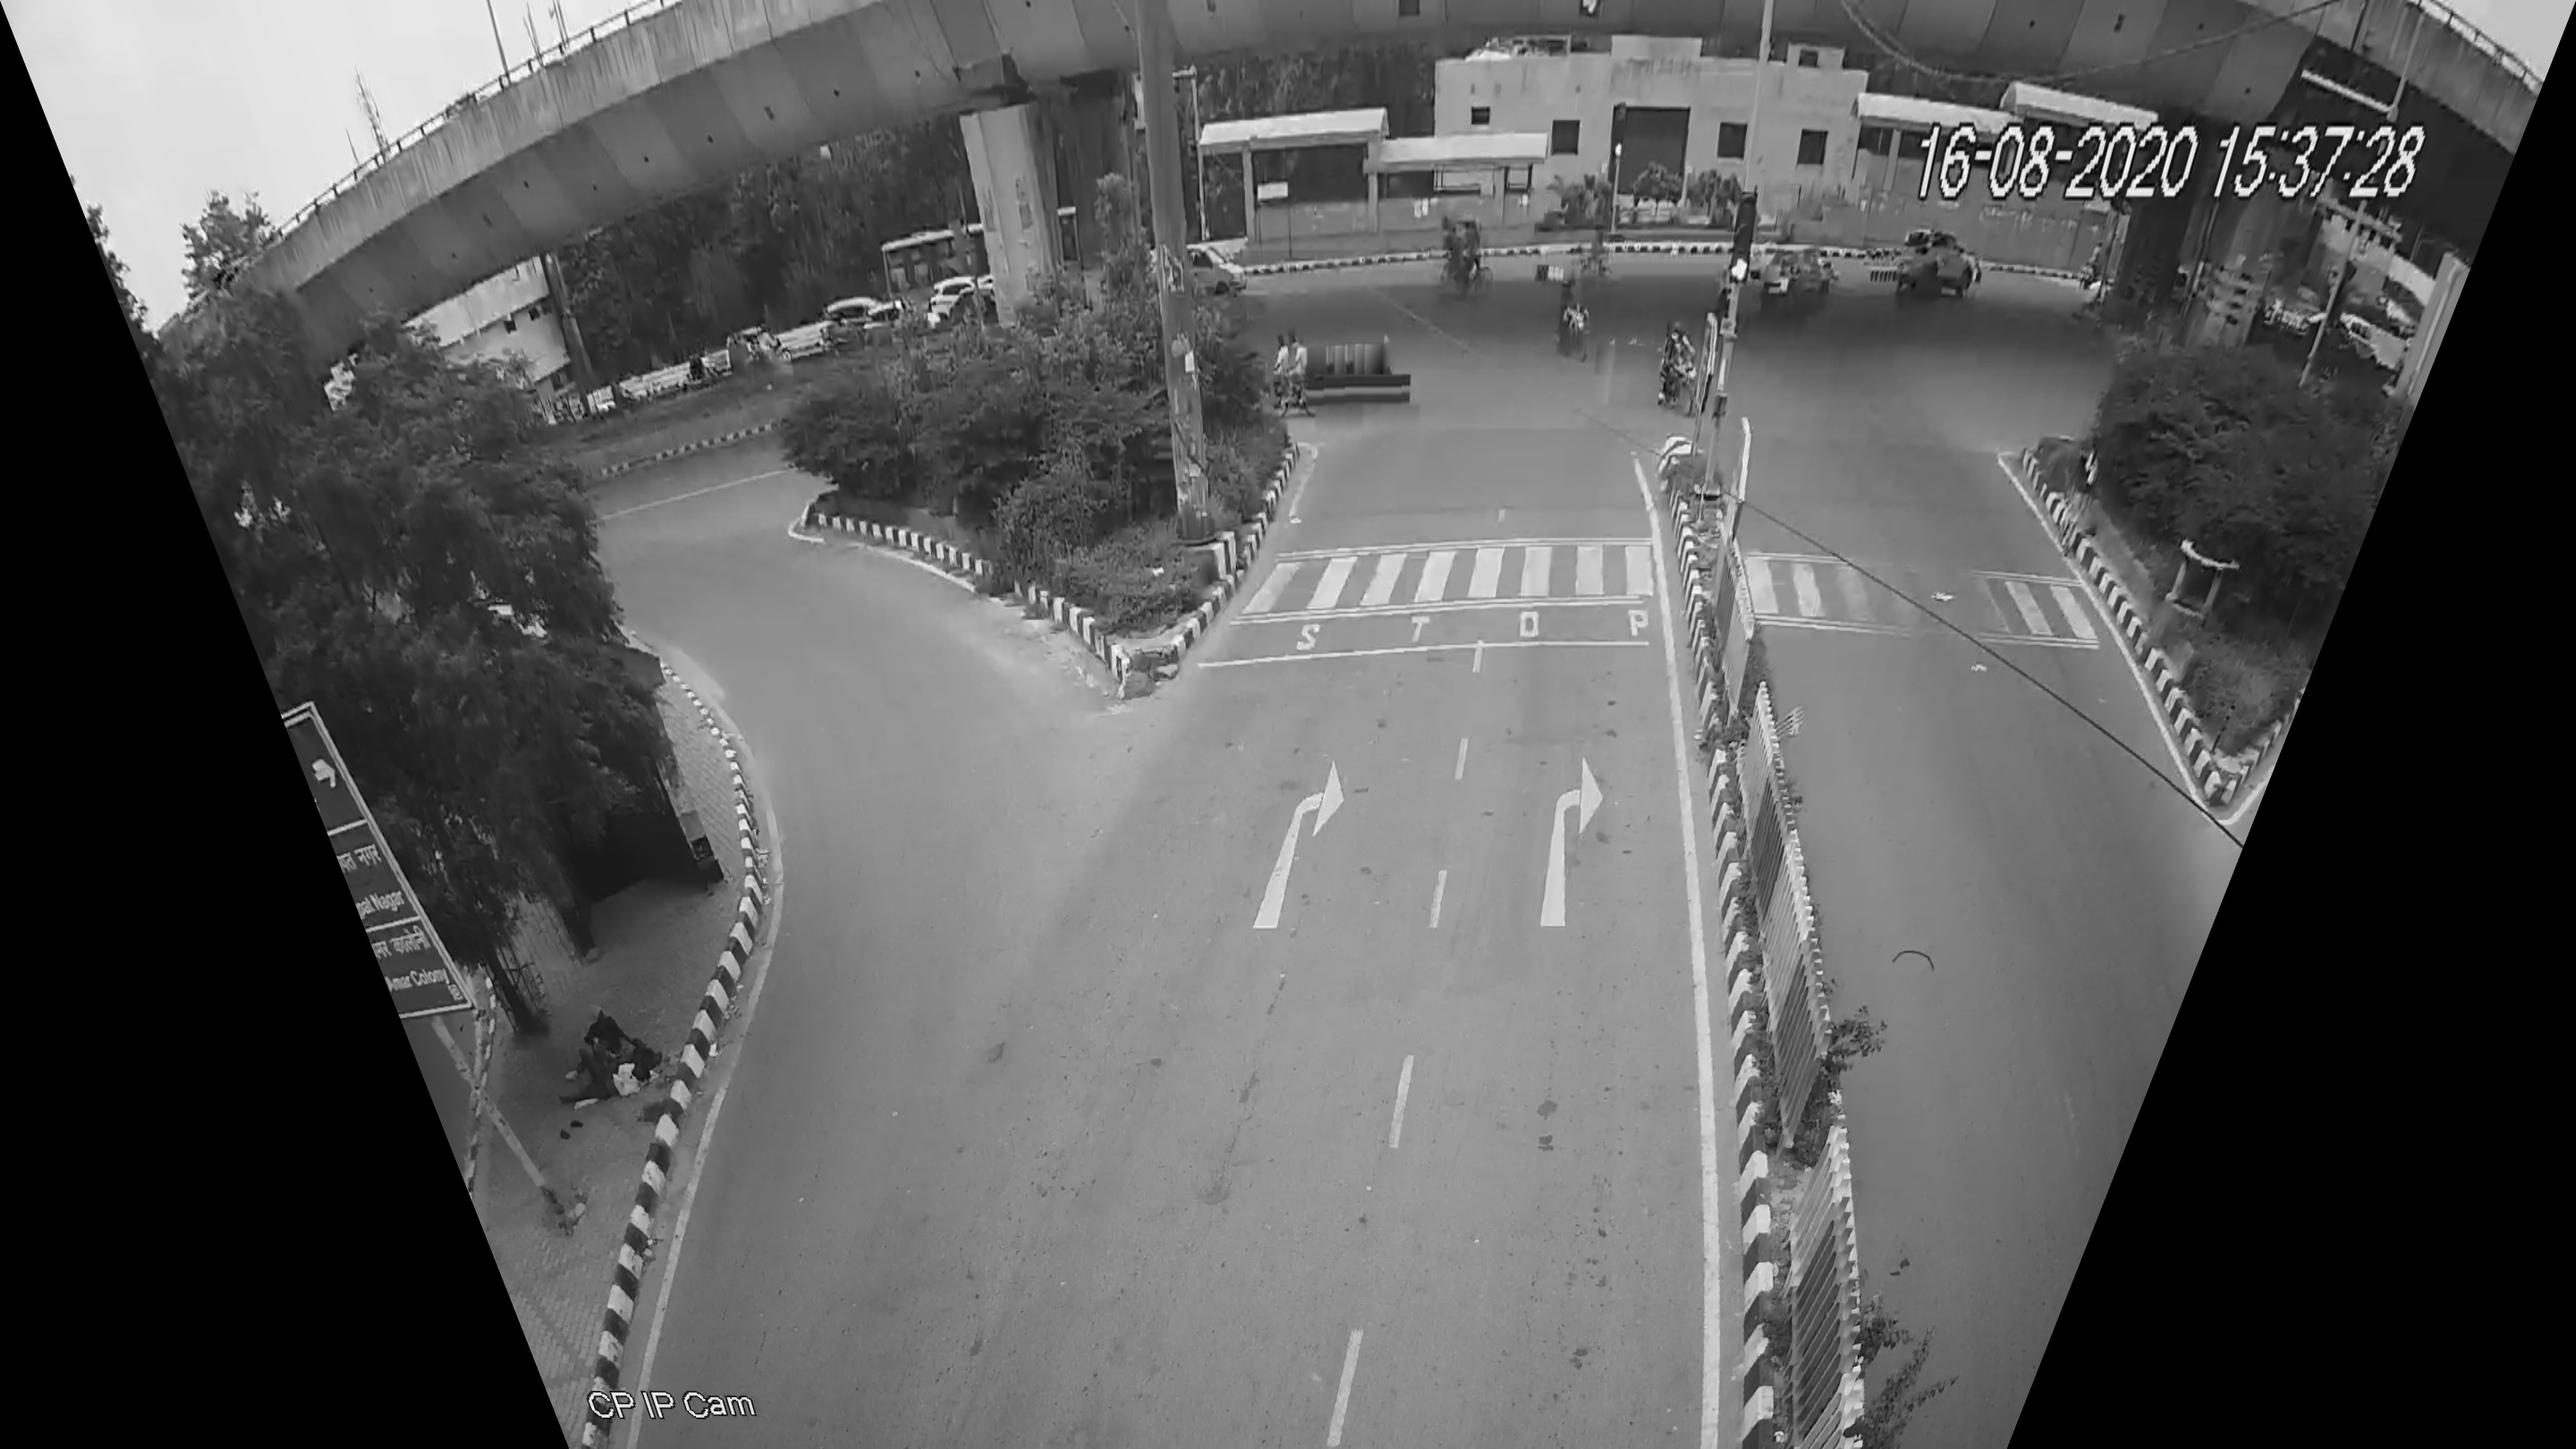
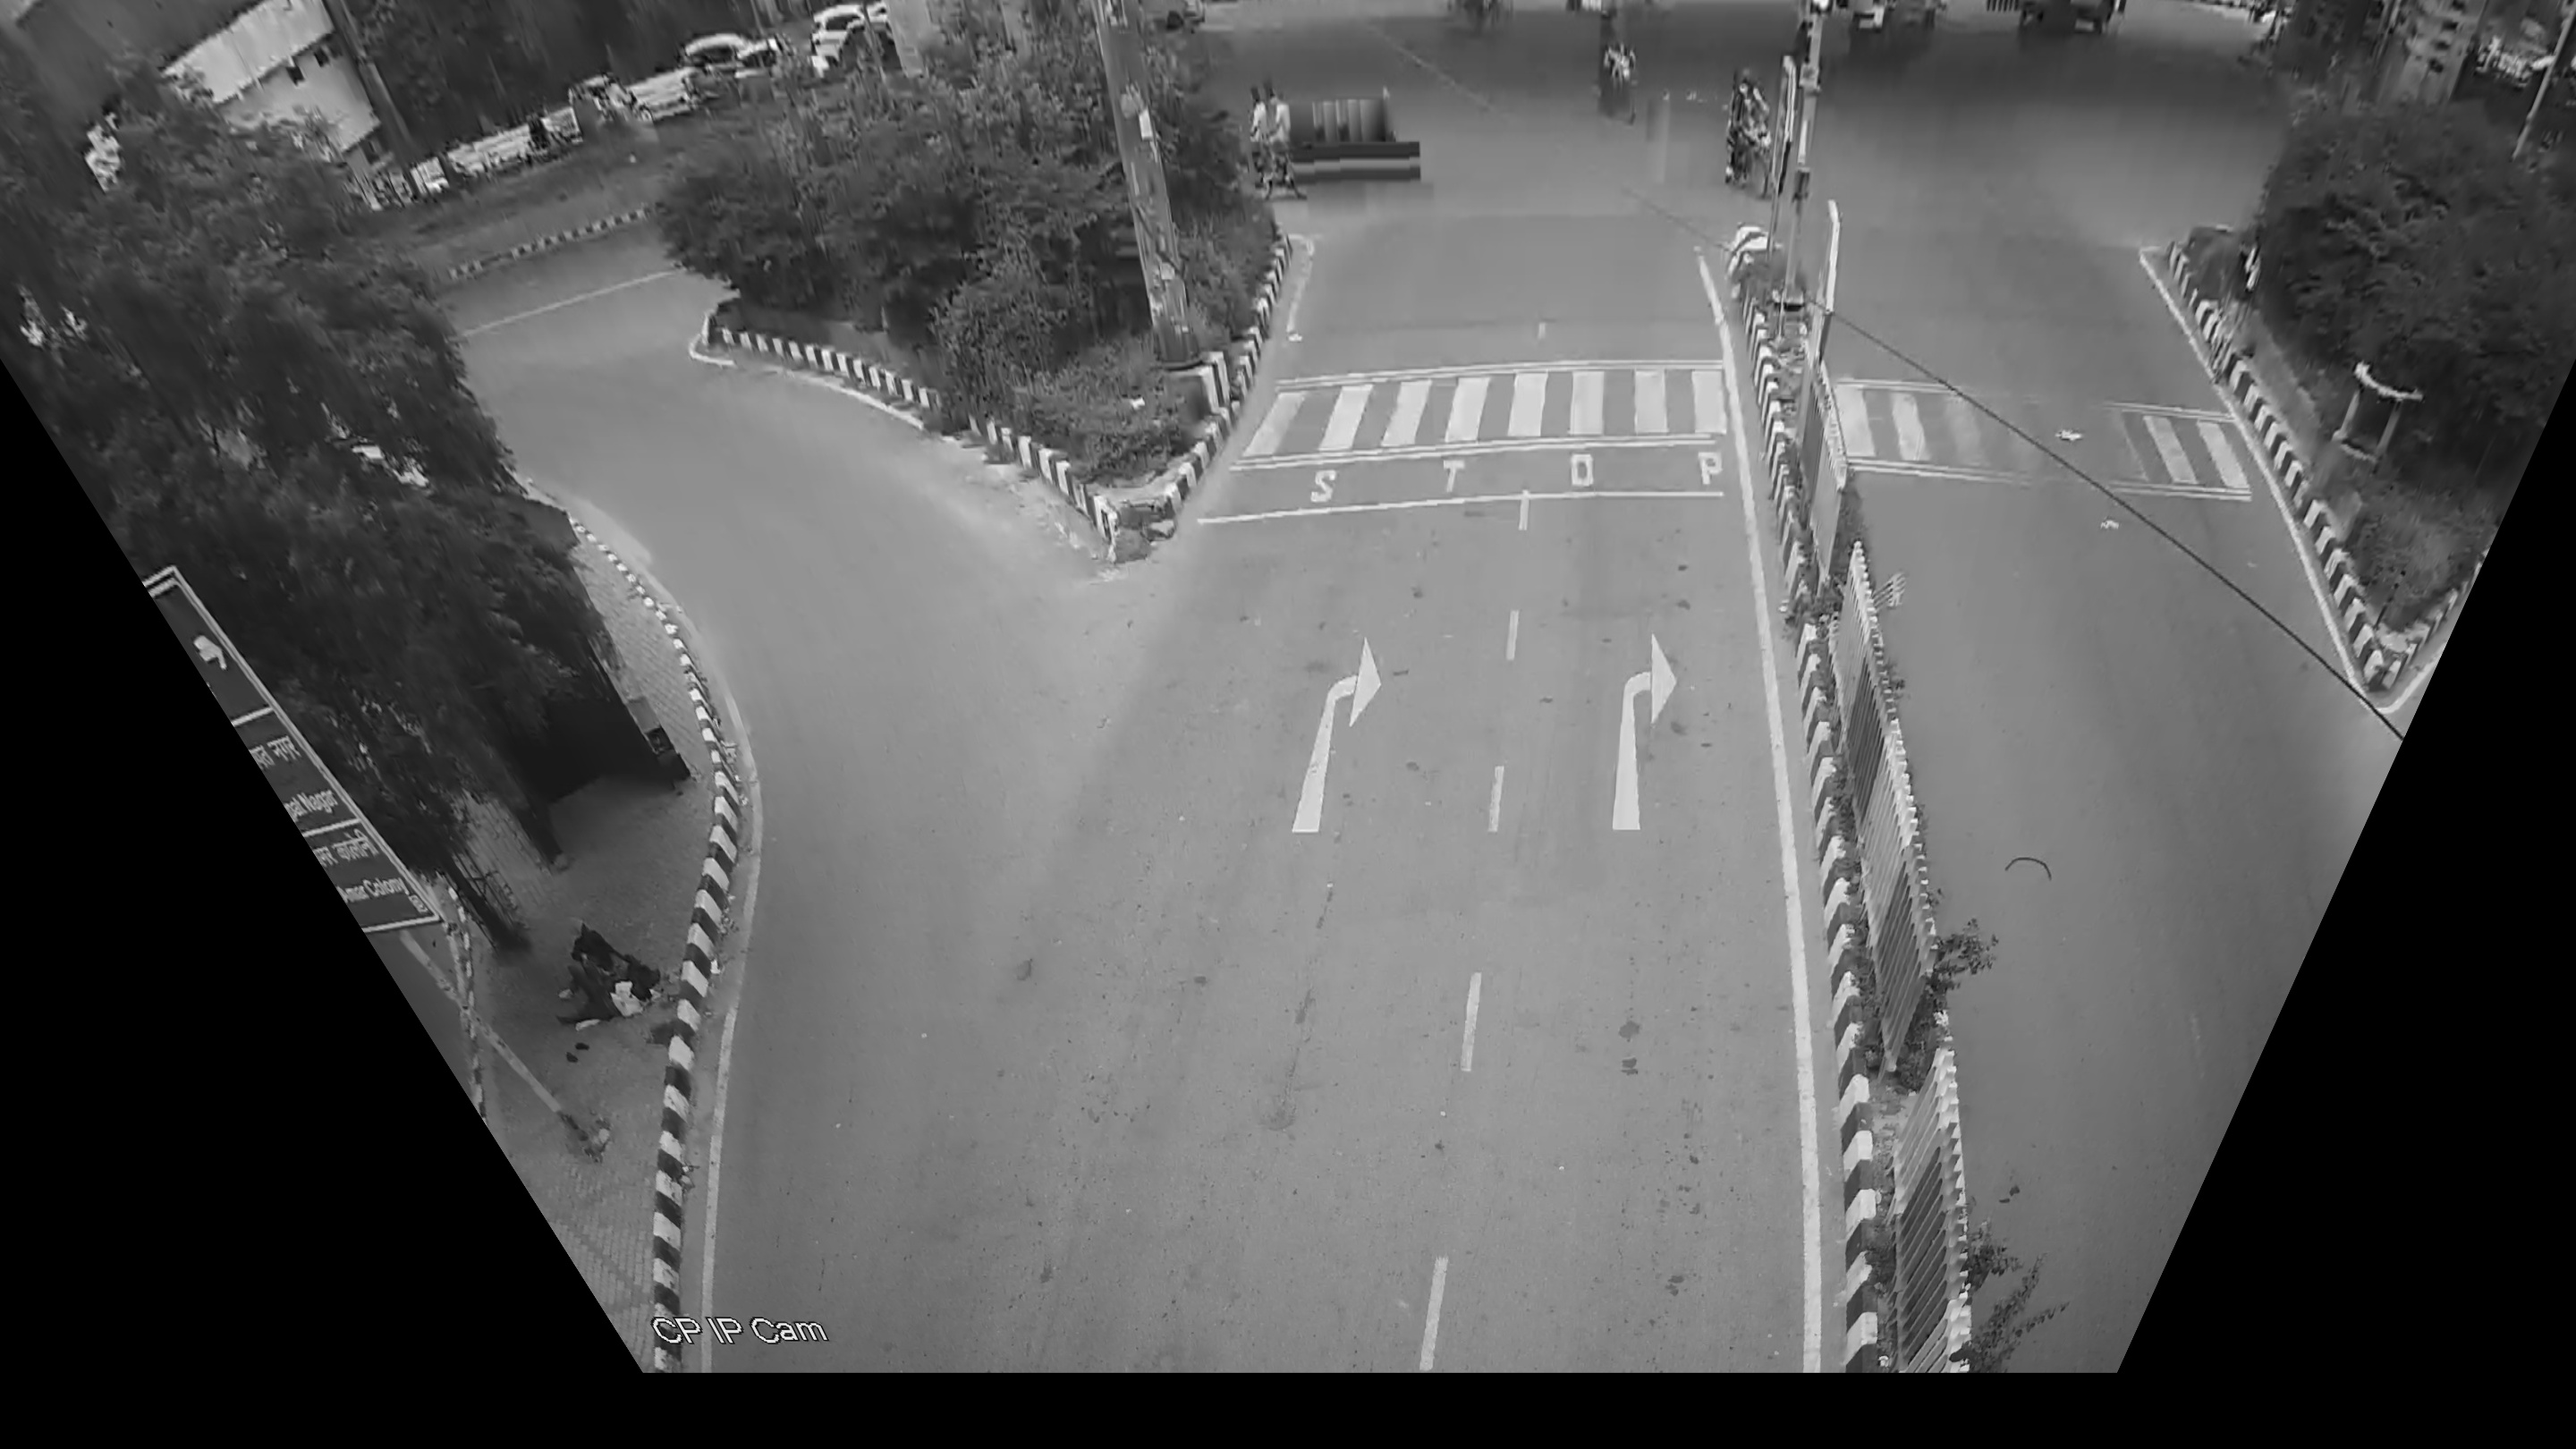
Warping added

diff --git a/Task1/Subtask1/img.cpp b/Task1/Subtask1/img.cpp
@@ -15,36 +15,56 @@ int main(int argc, char** argv)
 	resize(imgsrc,resized_img, Size(imgsrc.cols*1.5,imgsrc.rows*1.5));
 	Size img_size=resized_img.size();
 	Size size=imgsrc.size();
+	Size cropped_size(600,800);
 	
-	//Destination image initialized as blank/empty canvas i.e. a black screen	
+	//Destination images initialized as blank/empty canvas i.e. a black screen	
 	Mat img_dst = Mat::zeros(img_size,CV_32F);
+	Mat img_dst2 = Mat::zeros(img_size,CV_32F);
 
 	//A vector of points to be selected by mouse input
 	vector<Point2f> pts_src;
-	pts_src.push_back(Point2f(0,0));
-	pts_src.push_back(Point2f(0,img_size.height-1));
-	pts_src.push_back(Point2f(img_size.width-1,img_size.height-1));
-	pts_src.push_back(Point2f(img_size.width-1,0));
+	pts_src.push_back(Point2f(1500,400));
+	pts_src.push_back(Point2f(900,img_size.height-200));
+	pts_src.push_back(Point2f(2200,img_size.height-200));
+	pts_src.push_back(Point2f(2000,400));
+	
+	//vector<Point2f> pts_src;
+	//pts_src.push_back(Point2f(0,0));
+	//pts_src.push_back(Point2f(0,img_size.height-1));
+	//pts_src.push_back(Point2f(img_size.width-1,img_size.height-1));
+	//pts_src.push_back(Point2f(img_size.width-1,0));
+	
 
-	//A vector of pre-defined points of img_dst
+	//A vector of pre-defined points of img_dst for displaying the warped image
 	vector<Point2f> pts_dst;
-	pts_dst.push_back(Point2f(0,0));
-	pts_dst.push_back(Point2f(636,img_size.height-1));
-	pts_dst.push_back(Point2f(img_size.width-637,img_size.height-1));
-	pts_dst.push_back(Point2f(img_size.width-1,0));
+	pts_dst.push_back(Point2f(1500,400));
+	pts_dst.push_back(Point2f(1200,img_size.height-200));
+	pts_dst.push_back(Point2f(2000,img_size.height-200));
+	pts_dst.push_back(Point2f(2000,400));
+
+	//A vector of pre-defined points of img_dst2 for displaying the cropped image
+	vector<Point2f> pts_dst2;
+	pts_dst2.push_back(Point2f(0,0));
+	pts_dst2.push_back(Point2f(0,cropped_size.height-1));
+	pts_dst2.push_back(Point2f(cropped_size.width-1,cropped_size.height-1));
+	pts_dst2.push_back(Point2f(cropped_size.width-1,0));
 
 	//Finding warped image
-	Mat h = findHomography(pts_src,pts_dst);
-	warpPerspective(resized_img,img_dst,h,img_size);
+	Mat h1 = findHomography(pts_src,pts_dst);
+	Mat h2 = findHomography(pts_src,pts_dst2);
+	warpPerspective(resized_img,img_dst,h1,img_size);
+	warpPerspective(resized_img,img_dst2,h2,cropped_size);
 
 	//Displaying image(s)
 	imshow("Resized Image",resized_img);
 	imshow("Warped Image",img_dst);
+	imshow("Cropped Image",img_dst2);
 	waitKey(0);
 
 	//Saving the image
 	imwrite("resized.jpg",resized_img);
 	imwrite("warped.jpg",img_dst);
+	imwrite("cropped.jpg",img_dst2);
 	
 	return 0;
 }
